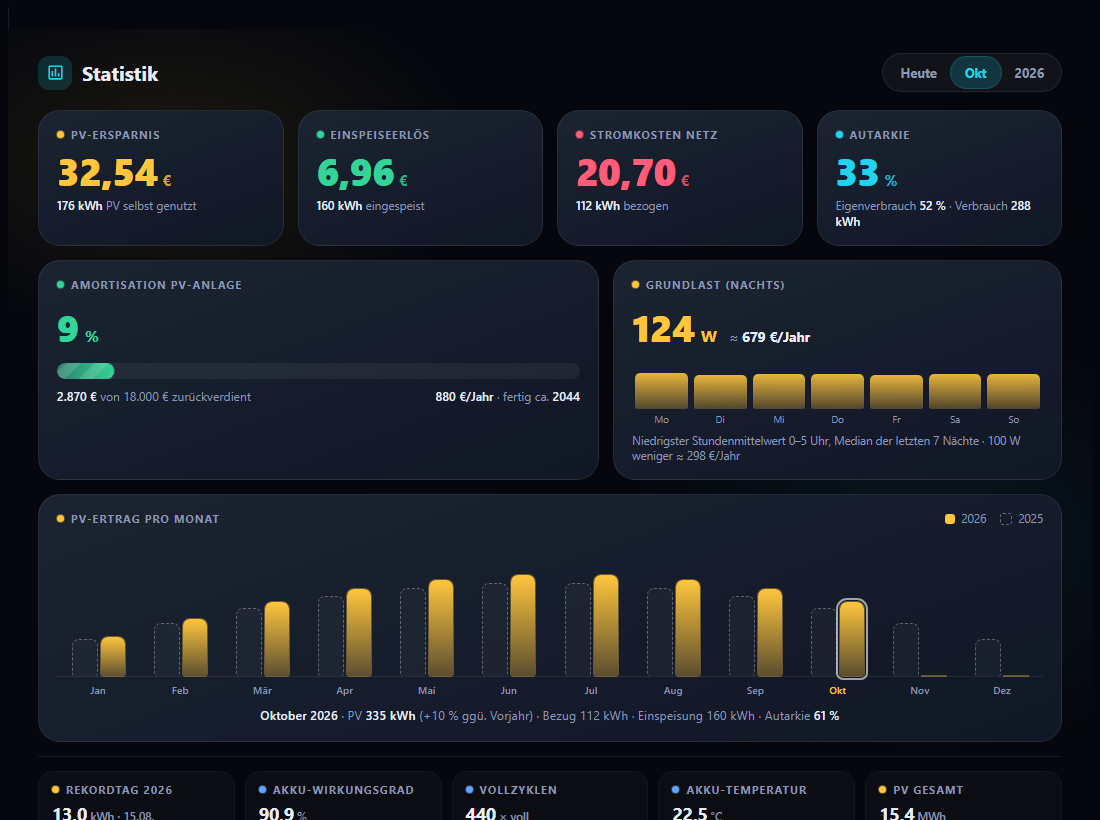
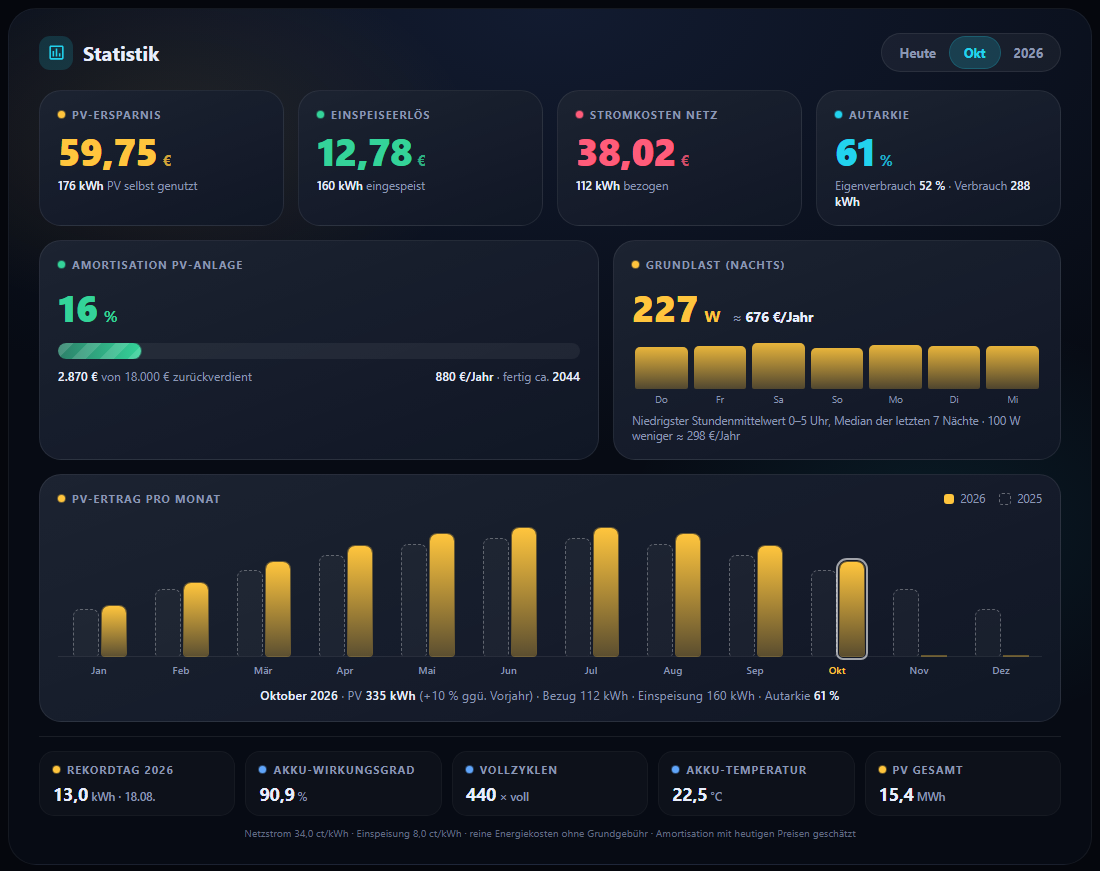
Screenshots: Endwerte statt Zwischenstand der Zähl-Animation (Zahlen stimmen jetzt überein)

diff --git a/test/_theme.js b/test/_theme.js
@@ -1,6 +1,8 @@
 // Testhilfe: ?theme=hell setzt das Farbschema aller Karten der Seite
 (() => {
   const q = new URLSearchParams(location.search);
+  // Für Screenshots: Zähl- und Gleitanimationen sofort bis zum Endwert laufen lassen
+  if (q.get('still')) window.requestAnimationFrame = (cb) => setTimeout(() => cb(performance.now() + 10000), 16);
   const t = q.get('theme');
   const sammel = q.get('sammel'), gr0 = q.get('groups');
   const bat = q.get('battery'); // z. B. battery=reserve:10,max:95,disp:nutzbar

diff --git a/tools/make-screenshots.py b/tools/make-screenshots.py
@@ -13,7 +13,7 @@ out.mkdir(exist_ok=True)
 
 def shot(page, name, width, height, scale=1, query=''):
     import time
-    url = (root / 'test' / page).as_uri() + query
+    url = (root / 'test' / page).as_uri() + query + ('&' if '?' in query else '?') + 'still=1'
     dst = out / f'{name}.png'
     if dst.exists():
         dst.unlink()
@@ -67,6 +67,10 @@ ROOM = [('room-kpis', 'head,kpis'), ('room-abrechnung', '0'), ('room-live', '1')
         ('room-betriebszeiten', '4'), ('room-verlauf', '5'), ('room-archiv', '8')]
 for name, show in ROOM:
     JOBS.append(('room-extra.html', name, '?show=' + show))
+# Hauptbilder der Karten
+JOBS.append(('flow.html', 'flow', '?shot=1'))
+JOBS.append(('devices.html', 'devices', '?shot=1'))
+JOBS.append(('stats.html', 'stats', '?shot=1'))
 # Farbschemen
 for th in ['hell', 'warm', 'graphit']:
     JOBS.append(('flow.html', f'theme-{th}-flow', f'?theme={th}'))
@@ -83,7 +87,7 @@ only = sys.argv[1:]
 for page, name, q in JOBS:
     if only and name not in only:
         continue
-    w, h = (560, 1500) if name == 'sammel-schmal' else (1100, 1400) if name.startswith('sammel') else (1100, 3200) if page.startswith('room') else ((1100, 1400) if (page.startswith('theme') or name.startswith('theme') or name.startswith('batterie')) else (560, 1100))
+    w, h = (560, 1500) if name == 'sammel-schmal' else (1100, 1400) if name.startswith('sammel') else (1100, 3200) if page.startswith('room') else ((1100, 1400) if (page.startswith('theme') or name.startswith('theme') or name.startswith('batterie') or name in ('flow', 'devices', 'stats')) else (560, 1100))
     p = shot(page, name, w, h, 1.5 if w < 1000 else 1, q)
     trim(p, pad=6)
     if name == 'wiz-devices-assistent':  # nur den Assistentenkasten (Formular gibt es im Test nicht)
